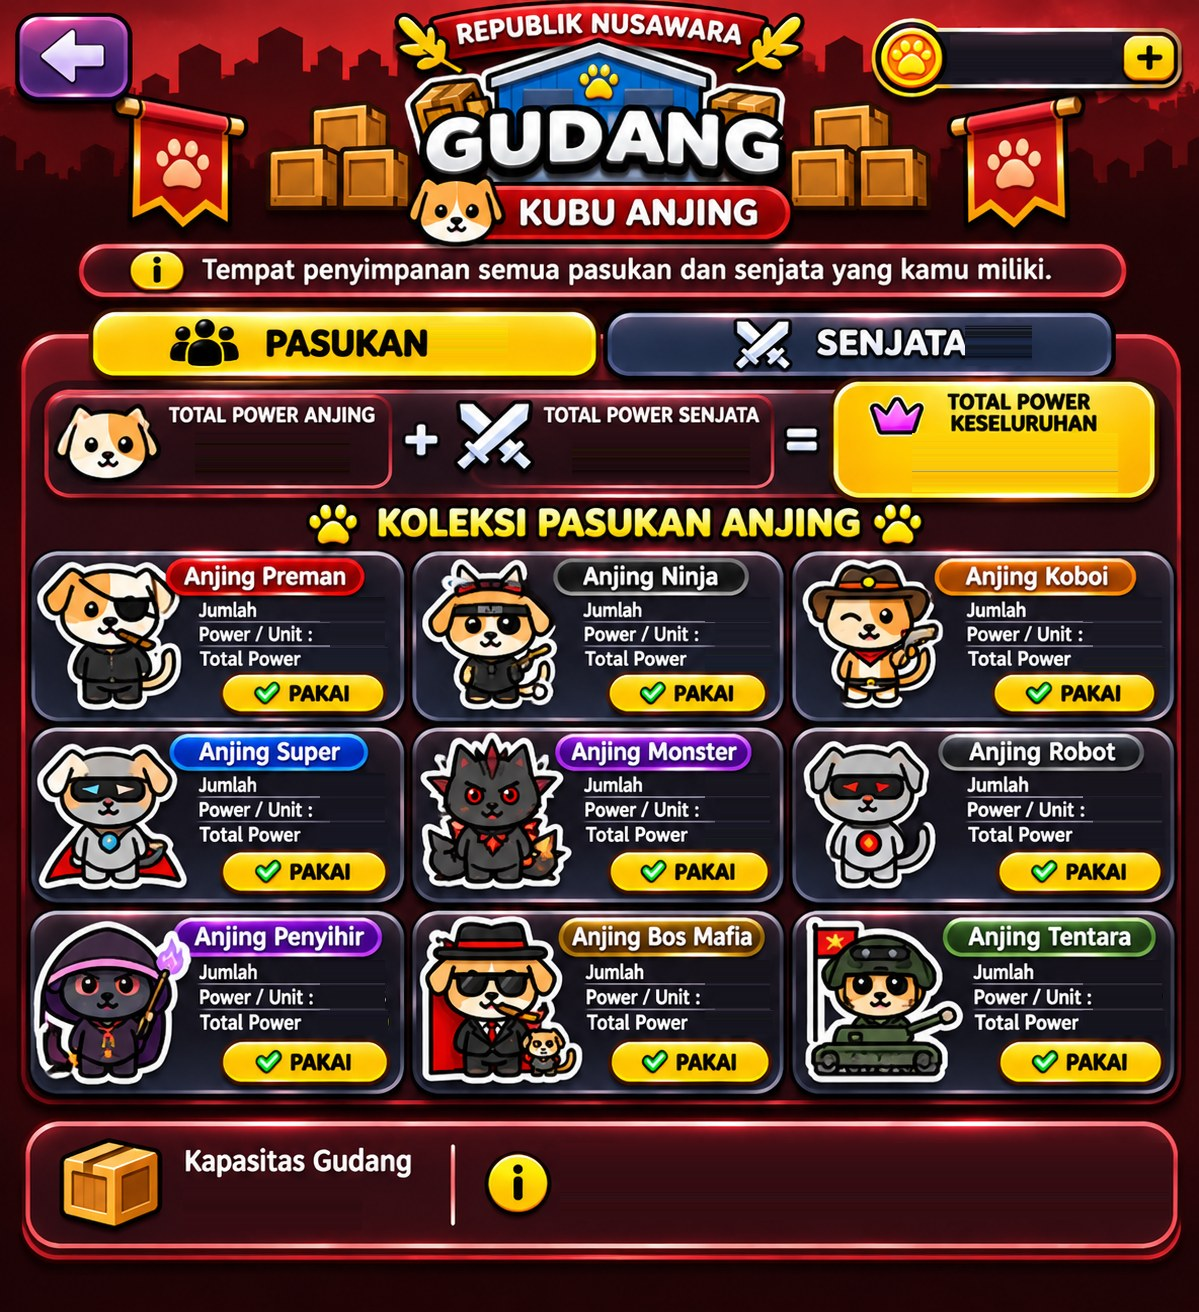
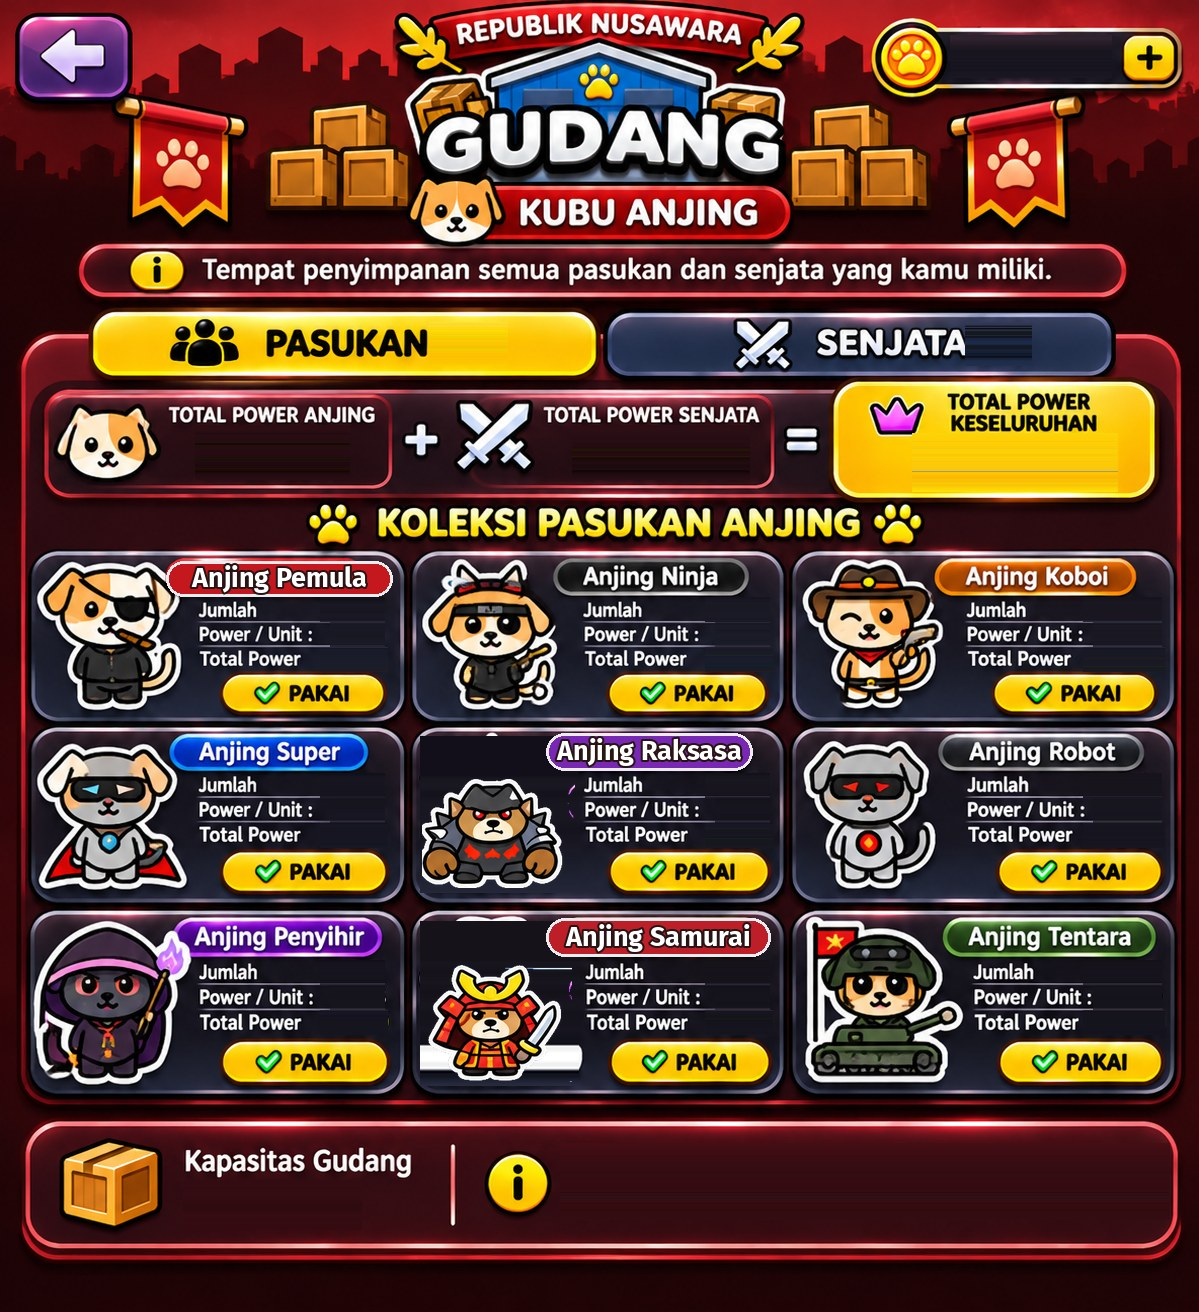
versi 21: gudang anjing disesuaikan dengan item yang dibeli (Pemula, Raksasa, Samurai)
Claude-Session: https://claude.ai/code/session_012X9z3fiAFZ3qgrK3AKFit9

Changed region(s): [[0.3394, 0.5625, 0.648, 0.8438], [0.1234, 0.4062, 0.3394, 0.4688]]

diff --git a/index.html b/index.html
@@ -13,7 +13,7 @@ html,body{margin:0;height:100%;background:#0e1124;font-family:system-ui,-apple-s
 </style></head><body>
 <div id="wrap"></div>
 <div id="ttl">PETA PERANG KUCING VS ANJING</div>
-<div id="ver" style="position:fixed;left:8px;top:calc(env(safe-area-inset-top) + 8px);z-index:30;font:600 11px system-ui;color:rgba(255,255,255,.75);background:rgba(0,0,0,.45);padding:2px 8px;border-radius:8px;pointer-events:none">versi 20 · 23 Nov 02:40</div><div id="hint">1 jari: geser peta · 2 jari: cubit zoom & putar</div>
+<div id="ver" style="position:fixed;left:8px;top:calc(env(safe-area-inset-top) + 8px);z-index:30;font:600 11px system-ui;color:rgba(255,255,255,.75);background:rgba(0,0,0,.45);padding:2px 8px;border-radius:8px;pointer-events:none">versi 21 · 23 Nov 02:55</div><div id="hint">1 jari: geser peta · 2 jari: cubit zoom & putar</div>
 <div id="bar">
 <button data-v="depan" class="on">Depan</button><button data-v="jam3">Jam 3</button><button data-v="jam9">Jam 9</button><button data-v="belakang">Belakang</button><button data-v="atas">Atas</button><button id="sorot">Sorot Pasukan</button><button id="auto">Putar otomatis</button><button id="waktu">Waktu: Jam asli</button>
 </div>
@@ -500,7 +500,7 @@ const harga=id=>{const m=/P\$ ?([\d.]+)/;return null;};
 const HG={a_pemula:100,a_ninja:300,a_koboi:250,a_samurai:350,a_super:450,a_tentara:400,a_raksasa:700,a_robot:600,a_penyihir:500,a_pentungan:100,a_shuriken:150,a_cutlass:200,a_cakar:250,a_tongkat:300,a_laser:400,a_tommy:500,a_meriam:600,k_pemula:100,k_ninja:300,k_koboi:250,k_super:450,k_raksasa:700,k_robot:600,k_penyihir:500,k_samurai:350,k_tentara:400,k_barbel:100,k_bom:150,k_pistol:200,k_perisai:250,k_tongkat:300,k_tinju:400,k_katana:500,k_bazoka:600};
 const NM={a_pemula:'Anjing Pemula',a_ninja:'Anjing Ninja',a_koboi:'Anjing Koboi',a_samurai:'Anjing Samurai',a_super:'Anjing Super',a_tentara:'Anjing Tentara',a_raksasa:'Anjing Raksasa',a_robot:'Anjing Robot',a_penyihir:'Anjing Penyihir',a_pentungan:'Pentungan Paku',a_shuriken:'Shuriken Tulang',a_cutlass:'Pedang Cutlass',a_cakar:'Cakar Bara',a_tongkat:'Tongkat Api Ungu',a_laser:'Laser Inti Merah',a_tommy:'Tommy Gun Emas',a_meriam:'Meriam Tank',k_pemula:'Kucing Pemula',k_ninja:'Kucing Ninja',k_koboi:'Kucing Koboi',k_super:'Kucing Super',k_raksasa:'Kucing Raksasa',k_robot:'Kucing Robot',k_penyihir:'Kucing Penyihir',k_samurai:'Kucing Samurai',k_tentara:'Kucing Tentara',k_barbel:'Barbel Besi',k_bom:'Bom Asap',k_pistol:'Pistol Revolver',k_perisai:'Perisai Cakar',k_tongkat:'Tongkat Bintang',k_tinju:'Tinju Roket',k_katana:'Katana',k_bazoka:'Bazoka'};
 const coin=()=>{const S=window.KVA_S;return S?+S.pet_coin||0:0;};
-function render(){const C=RK[kb][tab];document.getElementById('rki').src='rk_'+kb+'_'+tab+'.jpg?v=19';H.innerHTML='';
+function render(){const C=RK[kb][tab];document.getElementById('rki').src='rk_'+kb+'_'+tab+'.jpg?v=21';H.innerHTML='';
  const hs=(r,f)=>{const e=document.createElement('div');e.className='h';P(e,r);e.onclick=ev=>{ev.stopPropagation();f();};H.appendChild(e);};
  hs(C.back,close);hs(C.tp,()=>{tab='p';render();});hs(C.ts,()=>{tab='s';render();});
  C.btn.forEach(([id,...r])=>hs(r,()=>ask(id)));
@@ -528,7 +528,7 @@ const P=(e,[l,t,w,h])=>Object.assign(e.style,{left:l+'%',top:t+'%',width:w+'%',h
 const f=n=>Number(n||0).toLocaleString('id-ID');
 const tok=()=>{try{return localStorage.getItem('kva_token')}catch(_){return null}};
 async function call(fn,a){const t=tok();if(!t){kvaToast('Masuk dulu');return;}if(busy)return;busy=true;try{const j=await window.kvaRpc(fn,Object.assign({p_token:t},a));window.KVA_S=j;window.KVA_B=j.bangunan||window.KVA_B;render();return j;}catch(e){kvaToast(e.message);}finally{busy=false;}}
-function render(){const C=GD[kb][tab],S=window.KVA_S||{},inv=S.inventaris||[];document.getElementById('gdi').src='gd_'+kb+'_'+tab+'.jpg?v=19';H.innerHTML='';
+function render(){const C=GD[kb][tab],S=window.KVA_S||{},inv=S.inventaris||[];document.getElementById('gdi').src='gd_'+kb+'_'+tab+'.jpg?v=21';H.innerHTML='';
  const cnt={},on={};inv.forEach(x=>{cnt[x.item]=(cnt[x.item]||0)+1;if(x.dipakai)on[x.item]=1;});
  const nP=inv.filter(x=>x.jenis==='pasukan').length,nS=inv.length-nP,pp=+S.power_pasukan||0,ps=+S.power_senjata||0;
  const tx=(r,t,cls,fs)=>{const e=document.createElement('div');e.className='v '+(cls||'');P(e,r);e.style.fontSize=fs+'cqw';e.textContent=t;H.appendChild(e);return e;};
